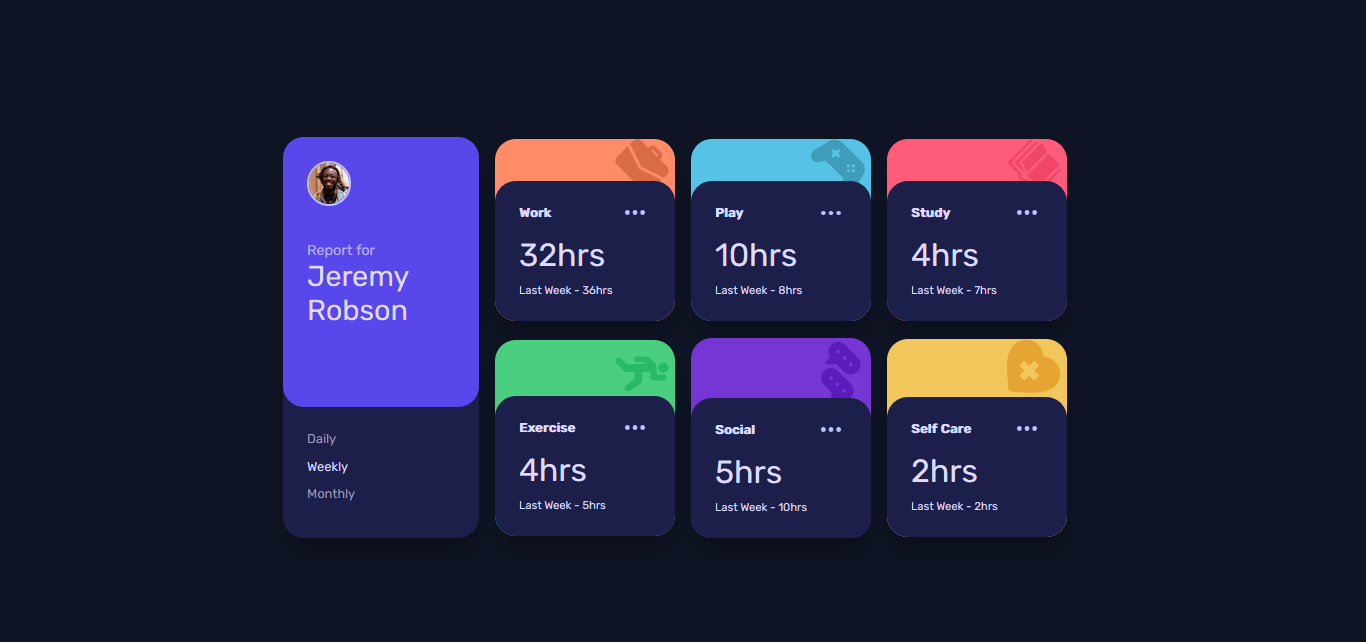
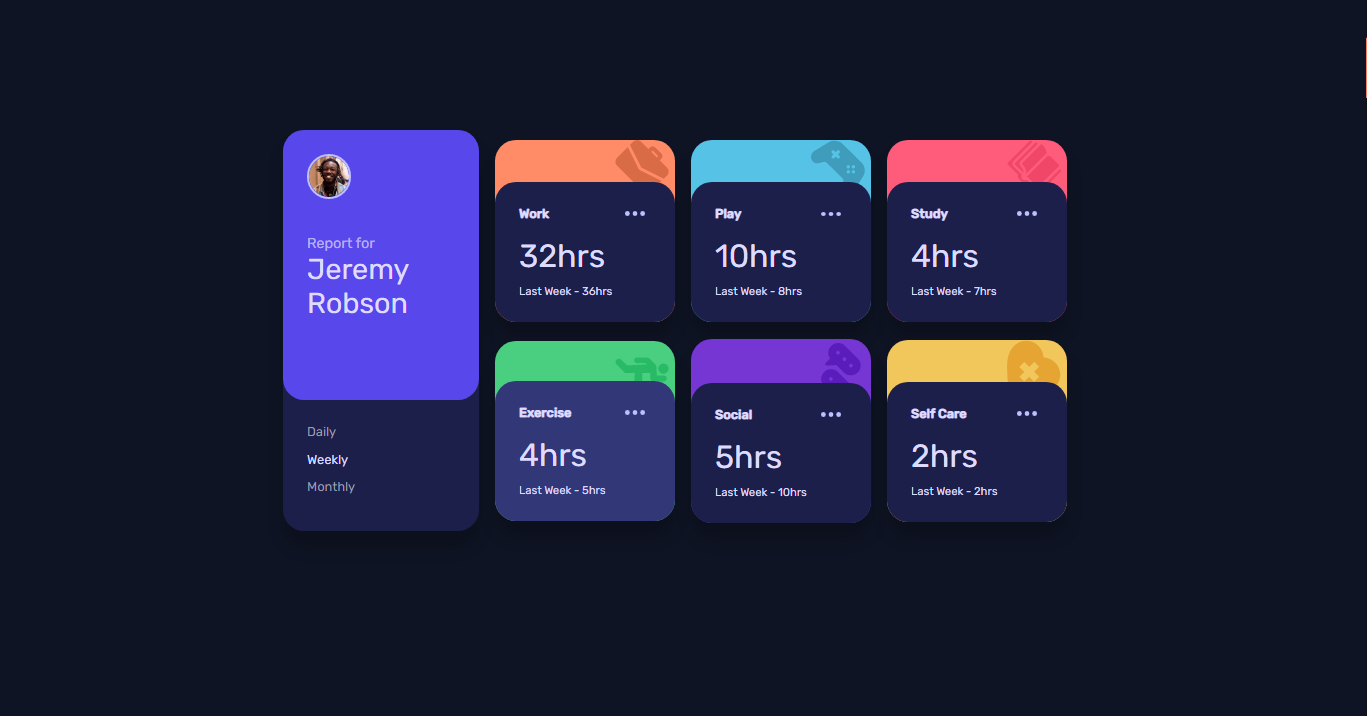
improve consistency for stat cards

Changed region(s): [[0.1845, 0.1558, 0.7994, 0.8411]]

diff --git a/src/assets/css/index.css b/src/assets/css/index.css
@@ -124,7 +124,6 @@ body {
 .bg-img {
     position: relative;
     right: -120px;
-    overflow: hidden;
     width: 30%;
     margin-bottom: -1rem;
     z-index: 1;
@@ -137,6 +136,8 @@ body {
     color: var(--text-color);
     box-shadow: var(--shadow);
     cursor: pointer;
+    position: relative;
+    z-index: 10;
 }
 
 .wrapper {
@@ -164,33 +165,29 @@ body {
     background: var(--light-red-study);
 }
 
-/**** TEMPORARY FIX FOR ALIGNMENT ISSUES *****/
 .exercise {
     background: var(--light-green-exercise);
 }
 
+/**** FIX ALIGNMENT ISSUES *****/
+
 .workout-icon {
     padding-top: 1rem;
-    padding-bottom: 1rem;
+}
+
+.message-bubble-icon {  
+    padding-top: -11rem;
 }
 
 /******************************************/
-
-/**** TEMPORARY FIX FOR ALIGNMENT ISSUES *****/
 
 .social {
     background: var(--violet-social);
 }
 
-/**** TEMPORARY FIX FOR ALIGNMENT ISSUES *****/
-.heart-icon {
-    padding-bottom: 1rem;
-}
-
 .self-care {
     background: var(--soft-orange-self-care);
 }
-/*******************************/
 
 /* STYLING FOR STAT CARD  */
 .stat-card {
@@ -222,4 +219,8 @@ body {
 
 .history {
     font-size: .7rem;
+}
+
+.social-card {
+    margin-top: -1rem;
 }

diff --git a/src/index.html b/src/index.html
@@ -171,7 +171,7 @@
                         <!-- CARD IMAGE -->
                         <img src="./assets/images/icon-social.svg" alt="social" class="bg-img message-bubble-icon">
 
-                        <div class="stat-card">
+                        <div class="stat-card social-card">
                             <div class="wrapper">
                     
                                 <h2 class="category">Social</h2>
